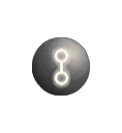
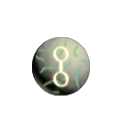
New atom textures!

Changed region(s): [[0.2459, 0.2707, 0.7377, 0.7218]]

diff --git a/Exports.cs b/Exports.cs
@@ -1,22 +1,39 @@
 using MonoMod.ModInterop;
 using MonoMod.Utils;
-
+using System;
+using PartType = class_139;
+using Texture = class_256;
 
 namespace HalvingMetallurgy;
 
 public static class Exports
 {
     // should've done this forever ago...
-    internal static void Initialize()
+    internal static void ExportTextures()
+    {
+        typeof(AtomTextureExports).ModInterop();
+    }
+    internal static void ExportContent()
     {
         typeof(AtomExports).ModInterop();
+
     }
+
+    [ModExportName("HalvingMetallurgy.Textures.Atom")]
+    public static class AtomTextureExports
+    {
+        public static Texture[] GetQuickcopperRadiation() => Textures.Atom.QuickcopperAnimation;
+        public static Texture GetPartyHat() => Textures.Atom.PartyHatTexture;
+    }
+
+    // todo
 
     [ModExportName("HalvingMetallurgy.Atoms")]
     public static class AtomExports
     {
         public static bool GetQuickcopperRadioactivity() => Atoms.quickcopperRadioactive;
         public static AtomType GetQuicklime() => Atoms.Quicklime;
+        // Active quickcopper is decorative, and is substituted for normal quickcopper in every molecule before the glyphs do their thing
         public static AtomType GetQuickCopper() => Atoms.Quickcopper;
         public static AtomType GetBeryl() => Atoms.Beryl;
         public static AtomType GetPurificationBeryl() => Atoms.PurificationBeryl;
@@ -28,9 +45,16 @@ public static class Exports
         public static AtomType GetOsmium() => Atoms.Osmium;
     }
 
-    [ModExportName("HalvingMetallurgy.Textures.Atom")]
-    public static class AtomTextureExports
+    [ModExportName("HalvingMetallurgy.Glyphs")]
+    public static class GlyphExports
     {
-
+        public static PartType GetHalves() => Glyphs.Halves;
+        public static PartType GetQuake() => Glyphs.Quake;
+        public static PartType GetSump() => Glyphs.Sump;
+        public static PartType GetRemission() => Glyphs.Remission;
+        public static PartType GetShearing() => Glyphs.Shearing;
+        public static PartType GetOsmosis() => Glyphs.Osmosis;
     }
+
+    // todo
 }

diff --git a/Atoms.cs b/Atoms.cs
@@ -16,7 +16,8 @@ public static class Atoms
             modName: "HalvingMetallurgy",
             name: "Osmium",
             pathToSymbol: "textures/atoms/erikhaag/HalvingMetallurgy/osmium_symbol",
-            pathToLightramp: "textures/atoms/erikhaag/HalvingMetallurgy/osmium_lightramp"
+            pathToLightramp: "textures/atoms/erikhaag/HalvingMetallurgy/osmium_lightramp",
+            pathToRimlight: "textures/atoms/erikhaag/HalvingMetallurgy/osmium_rimlight"
         );
 
         Sednum = Brimstone.API.CreateMetalAtom(
@@ -25,6 +26,7 @@ public static class Atoms
             name: "Sednum",
             pathToSymbol: "textures/atoms/erikhaag/HalvingMetallurgy/sednum_symbol",
             pathToLightramp: "textures/atoms/erikhaag/HalvingMetallurgy/sednum_lightramp",
+            pathToRimlight: "textures/atoms/erikhaag/HalvingMetallurgy/sednum_rimlight",
             promotesTo: Osmium
         );
 
@@ -34,16 +36,17 @@ public static class Atoms
             name: "Zinc",
             pathToSymbol: "textures/atoms/erikhaag/HalvingMetallurgy/zinc_symbol",
             pathToLightramp: "textures/atoms/erikhaag/HalvingMetallurgy/zinc_lightramp",
+            pathToRimlight: "textures/atoms/erikhaag/HalvingMetallurgy/zinc_rimlight",
             promotesTo: Sednum
         );
-        // potential to-do: give nickel green speckles (oxides)
+
         Nickel = Brimstone.API.CreateMetalAtom(
             ID: 127,
             modName: "HalvingMetallurgy",
             name: "Nickel",
             pathToSymbol: "textures/atoms/erikhaag/HalvingMetallurgy/nickel_symbol_oxide",
             pathToLightramp: "textures/atoms/erikhaag/HalvingMetallurgy/nickel_lightramp",
-            //pathToRimlight: "textures/atoms/erikhaag/HalvingMetallurgy/nickel_rimlight",
+            pathToRimlight: "textures/atoms/erikhaag/HalvingMetallurgy/nickel_rimlight",
             promotesTo: Zinc
         );
 

diff --git a/HalvingMetallurgy.cs b/HalvingMetallurgy.cs
@@ -32,7 +32,7 @@ public class HalvingMetallurgy : QuintessentialMod
 
     public override void Load()
     {
-        Exports.Initialize();
+        Exports.ExportTextures();
         self = this;
         Settings = new MySettings();
 
@@ -87,8 +87,9 @@ public class HalvingMetallurgy : QuintessentialMod
         contentPath = Brimstone.API.GetContentPath("HalvingMetallurgy").method_1087();
         Sounds.LoadSounds();
         Glyphs.AddPartTypes();
-
         Wheel.LoadWheel();
+
+        Exports.ExportContent();
 
         // Edge-case Dictionaries
         API.ShearingDictionary.Add(Brimstone.API.VanillaAtoms.quicksilver, new(Atoms.Quickcopper, Atoms.Quickcopper));
